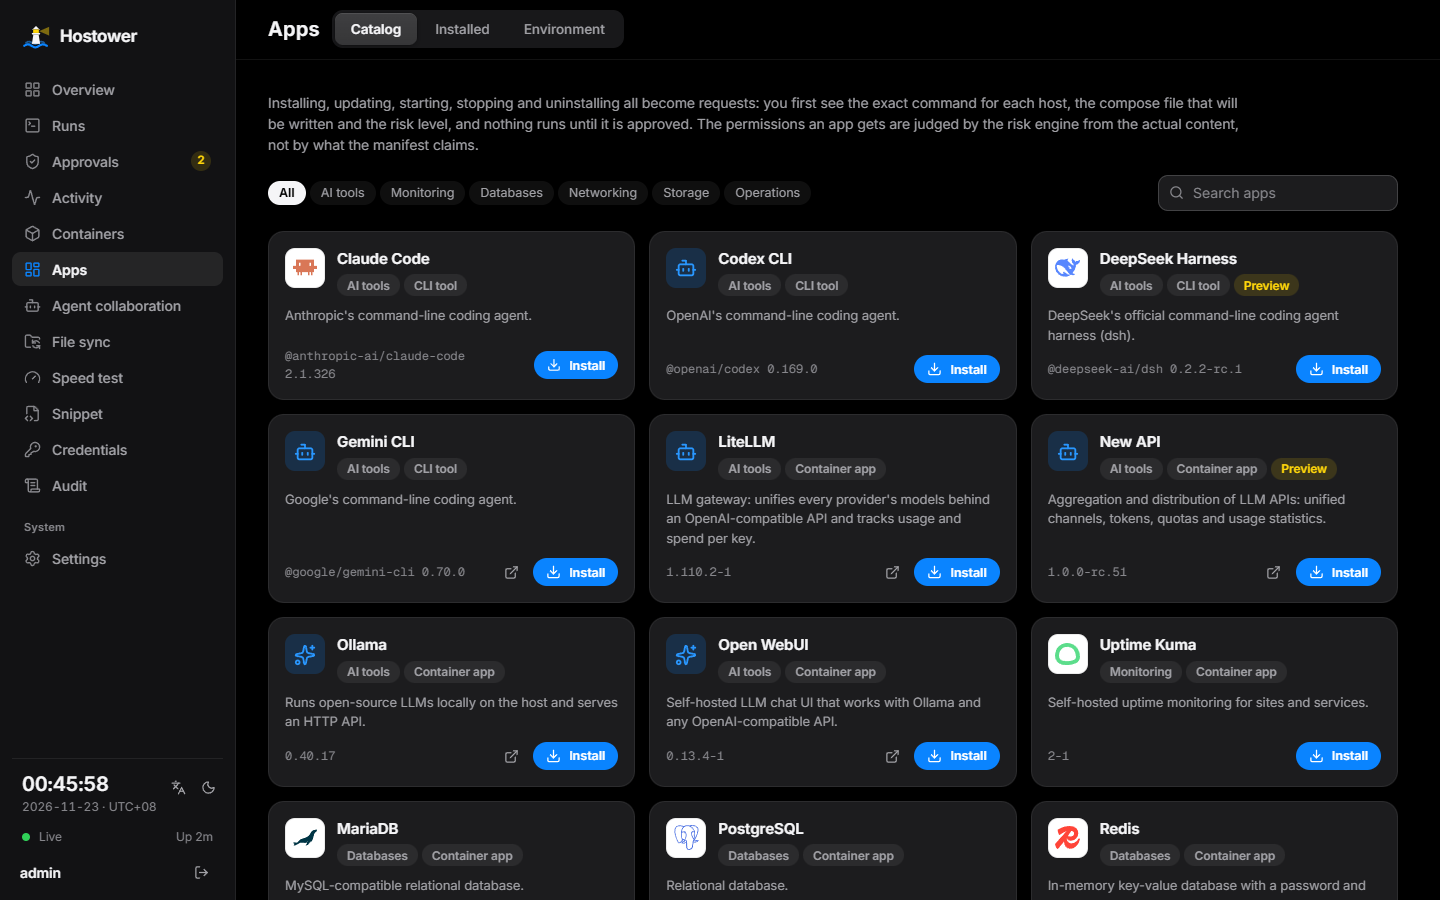
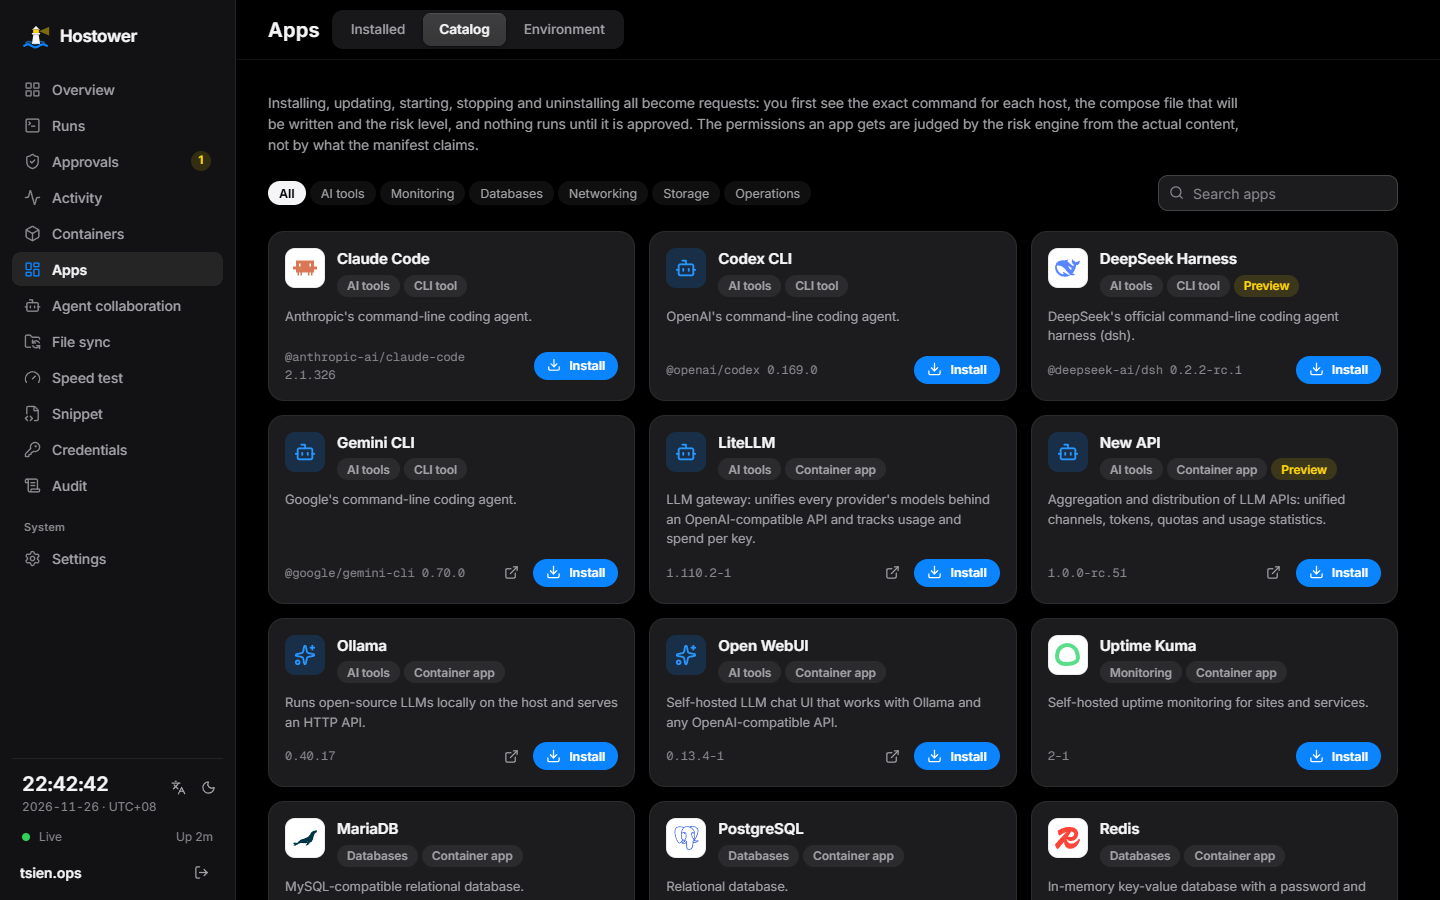
应用页：“已安装”排到最前并默认打开
已安装的应用天天要用，应用目录只在装新东西时才看，原来却是目录在前、
每次都要多点一下。现在页签顺序是 已安装、应用目录、环境；一个都没装时
空状态里有按钮直达目录，从别处点“安装”过来的仍然停在目录。
README 里应用目录的截图页签顺序变了，重截。

diff --git a/web/src/pages/Apps.tsx b/web/src/pages/Apps.tsx
@@ -40,7 +40,8 @@ const typeLabel = { compose: "容器应用", npm: "命令行工具" } as const;
 export function AppsPage() {
   const t = useT();
   const [sp, setSp] = useSearchParams();
-  const tab = sp.get("tab") === "installed" ? "installed" : sp.get("tab") === "env" ? "env" : "catalog";
+  // “已安装”最常用，排在最前、默认打开；目录和环境用 ?tab= 指定。
+  const tab = sp.get("tab") === "catalog" ? "catalog" : sp.get("tab") === "env" ? "env" : "installed";
   const [catalog, setCatalog] = useState<AppItem[] | null>(() => cached<AppItem[]>("apps:catalog") ?? null);
   const [categories, setCategories] = useState<string[]>([]);
   const [installing, setInstalling] = useState<AppItem | null>(null);
@@ -57,7 +58,7 @@ export function AppsPage() {
     if (!a) return;
     setInstallHost(sp.get("host") ?? "");
     setInstalling(a);
-    setSp({}, { replace: true });
+    setSp({ tab: "catalog" }, { replace: true });
   }, [wantInstall, byName]); // eslint-disable-line react-hooks/exhaustive-deps
 
   return (
@@ -65,8 +66,8 @@ export function AppsPage() {
       <div className="topbar">
         <h1>{t("应用")}</h1>
         <div className="tabs" role="tablist">
-          <button role="tab" aria-selected={tab === "catalog"} className={"tab" + (tab === "catalog" ? " active" : "")} onClick={() => setSp({})}>{t("应用目录")}</button>
-          <button role="tab" aria-selected={tab === "installed"} className={"tab" + (tab === "installed" ? " active" : "")} onClick={() => setSp({ tab: "installed" })}>{t("已安装")}</button>
+          <button role="tab" aria-selected={tab === "installed"} className={"tab" + (tab === "installed" ? " active" : "")} onClick={() => setSp({})}>{t("已安装")}</button>
+          <button role="tab" aria-selected={tab === "catalog"} className={"tab" + (tab === "catalog" ? " active" : "")} onClick={() => setSp({ tab: "catalog" })}>{t("应用目录")}</button>
           <button role="tab" aria-selected={tab === "env"} className={"tab" + (tab === "env" ? " active" : "")} onClick={() => setSp({ tab: "env" })}>{t("环境")}</button>
         </div>
       </div>
@@ -473,7 +474,7 @@ function Installed({ byName }: { byName: Map<string, AppItem> }) {
           )}
         </div>
         {!data ? <div className="empty">{loading ? t("加载中…") : t("还没有主机")}</div>
-          : rows.length === 0 ? <Empty icon={<Package />} title={t("还没有通过应用市场安装的应用")} />
+          : rows.length === 0 ? <Empty icon={<Package />} title={t("还没有通过应用市场安装的应用")}><button className="btn primary sm" onClick={() => setSp({ tab: "catalog" })}><Search />{t("应用目录")}</button></Empty>
           : (
             <div className="table-wrap">
               <table className="table app-table">
